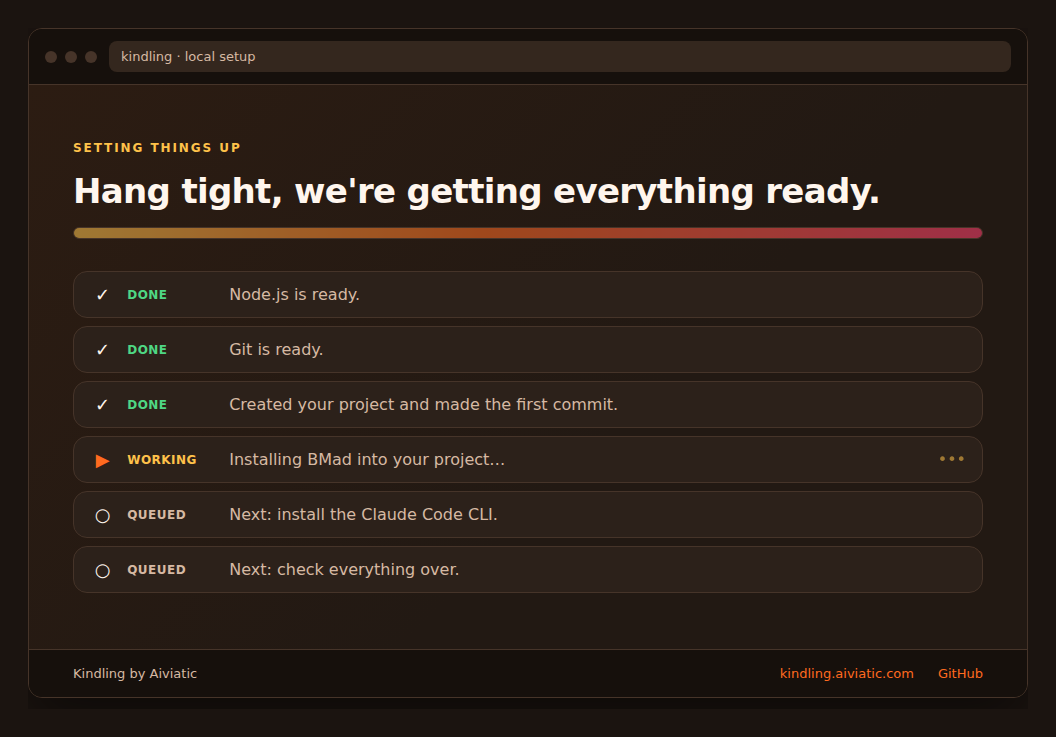
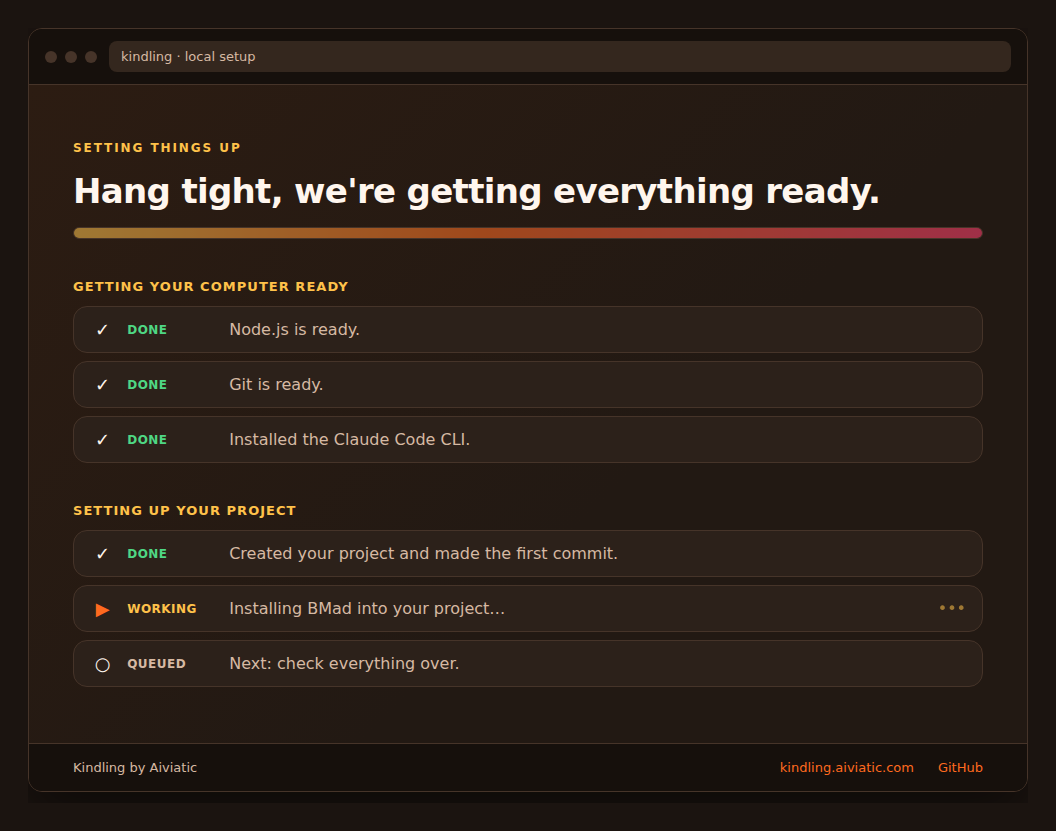
feat(progress): split the install into system + project sections
Group the Progress screen into two labelled sections — "Getting your computer
ready" (Node, Git, the global agent-CLI installs) and "Setting up your project"
(scaffold, the method install, the final check) — so a non-developer sees the
machine-wide setup grouped apart from the project setup. One overall bar is kept.

Engine: reorder install.agent-cli to run with Node/Git (before scaffold), so all
system installs are contiguous and match the sections. It's a global `npm -g`
install with no dependency on the project; retry is id-keyed so the reorder is
safe, and the self-check still re-probes CLI presence.

Adds a Section vocabulary + STEP_SECTION map (contract SSOT), a groupBySection
UI helper, section styling, and tests. Phase 2 of docs/install-architecture-design.md.
No new methods yet — BMad still always installs.

Claude-Session: https://claude.ai/code/session_014Ay1bZiDNd65qr6ib2rPoq

diff --git a/engine/engine.ts b/engine/engine.ts
@@ -132,6 +132,33 @@ export class Engine implements EngineCommands<EngineRunResult> {
         },
       },
       {
+        // Agent-CLI install (Story 6.1) — a SYSTEM install (global `npm install -g`), so it runs in
+        // the system section alongside Node/Git, before the project is scaffolded. NON-fatal by
+        // design: the step returns `true` UNCONDITIONALLY, so an individual CLI-install failure never
+        // fails the run — it surfaces only as a Failed event (ErrorCode.AgentCliInstallFailed) and the
+        // run still reaches the project section + self-check. Retryable via
+        // engine.retry(StepId.InstallAgentCli); retry() skips the already-completed later steps.
+        id: StepId.InstallAgentCli,
+        run: async () => {
+          // Non-fatal: the step returns true unconditionally. The install RESULT is intentionally
+          // not stored — the self-check re-derives CLI presence by probing (Story 6.2), so the
+          // presence report is robust to a mid-run failure regardless of this step's outcome.
+          // Windows: same `.cmd`-shim problem as the method install — `npm` can't spawn by bare name
+          // (shell:false), so route through `node npm-cli.js …`. macOS/Linux keep the bare-`npm` default.
+          await this.deps.installAgentCli({
+            config: this.config,
+            emitter: this.emitter,
+            // Windows: the idempotent-skip probe must go through `cmd /c <bin> --version` so the
+            // installed `claude.cmd` shim is detected (Node won't spawn `.cmd` with shell:false).
+            isWindows: this.deps.platform === 'win32',
+            ...(this.deps.platform === 'win32'
+              ? { npmCommand: process.execPath, npmPrefixArgs: [npmCliPath(process.execPath)] }
+              : {}),
+          });
+          return true;
+        },
+      },
+      {
         id: StepId.ScaffoldGitInit,
         run: async () => {
           const outcome = await this.deps.scaffold({
@@ -161,34 +188,6 @@ export class Engine implements EngineCommands<EngineRunResult> {
           });
           this.methodInstalled = result.ok;
           return result.ok;
-        },
-      },
-      {
-        // Optional agent-CLI install (Story 6.1). NON-fatal by design: it awaits the step but
-        // returns `true` UNCONDITIONALLY, so an individual CLI-install failure never invalidates
-        // the successful BMad install — the run still reaches self-check / Welcome. The failure is
-        // surfaced only as a Failed event (ErrorCode.AgentCliInstallFailed) for the error surface /
-        // Story 6.2 UI. The row is retryable via engine.retry(StepId.InstallAgentCli) — but note a
-        // future "Retry install" affordance must ALSO re-run self-check to refresh the Welcome's
-        // CLI-presence guidance (retry() skips the already-completed self-check). See deferred-work.md.
-        id: StepId.InstallAgentCli,
-        run: async () => {
-          // Non-fatal: the step returns true unconditionally. The install RESULT is intentionally
-          // not stored — the self-check re-derives CLI presence by probing (Story 6.2), so the
-          // presence report is robust to a mid-run failure regardless of this step's outcome.
-          // Windows: same `.cmd`-shim problem as BMad — `npm` can't spawn by bare name (shell:false),
-          // so route through `node npm-cli.js …`. macOS/Linux keep the bare-`npm` default.
-          await this.deps.installAgentCli({
-            config: this.config,
-            emitter: this.emitter,
-            // Windows: the idempotent-skip probe must go through `cmd /c <bin> --version` so the
-            // installed `claude.cmd` shim is detected (Node won't spawn `.cmd` with shell:false).
-            isWindows: this.deps.platform === 'win32',
-            ...(this.deps.platform === 'win32'
-              ? { npmCommand: process.execPath, npmPrefixArgs: [npmCliPath(process.execPath)] }
-              : {}),
-          });
-          return true;
         },
       },
       {

diff --git a/ui/screens/Progress.tsx b/ui/screens/Progress.tsx
@@ -8,6 +8,7 @@ import {
   activeStep,
   valueText,
   isSlowStep,
+  groupBySection,
 } from '../state/progress';
 
 // Step 3 — honest, never-frozen Progress. One row per step (icon + WORD + the engine's own
@@ -61,31 +62,39 @@ export function Progress() {
         {state.lastMessage}
       </p>
 
-      <ul className="steps" role="list">
-        {steps.map((step) => {
-          const view = STATUS_VIEW[step.status] ?? STATUS_VIEW[Status.Queued]; // guard unknown
-          const working = step.status === Status.Working;
-          const slow = working && isSlowStep(step.id);
-          return (
-            <li
-              key={step.id}
-              className={`step-row${working ? ' step-row--working' : ''}`}
-              data-tone={view.tone}
-            >
-              <span className="step-icon" aria-hidden="true">
-                {view.icon}
-              </span>
-              <span className="step-word">{view.word}</span>
-              <span className="step-message">{step.message}</span>
-              {slow && (
-                <span className="step-activity" aria-hidden="true">
-                  •••
-                </span>
-              )}
-            </li>
-          );
-        })}
-      </ul>
+      {/* Two sections — the machine-wide "system" installs, then the "project" installs — so a
+          non-developer sees the scary/slow computer setup grouped apart from the project setup.
+          Sections appear as their steps start (event-driven), in section order. */}
+      {groupBySection(steps).map((group) => (
+        <div className="step-section" key={group.section}>
+          <h2 className="step-section-head">{group.label}</h2>
+          <ul className="steps" role="list">
+            {group.steps.map((step) => {
+              const view = STATUS_VIEW[step.status] ?? STATUS_VIEW[Status.Queued]; // guard unknown
+              const working = step.status === Status.Working;
+              const slow = working && isSlowStep(step.id);
+              return (
+                <li
+                  key={step.id}
+                  className={`step-row${working ? ' step-row--working' : ''}`}
+                  data-tone={view.tone}
+                >
+                  <span className="step-icon" aria-hidden="true">
+                    {view.icon}
+                  </span>
+                  <span className="step-word">{view.word}</span>
+                  <span className="step-message">{step.message}</span>
+                  {slow && (
+                    <span className="step-activity" aria-hidden="true">
+                      •••
+                    </span>
+                  )}
+                </li>
+              );
+            })}
+          </ul>
+        </div>
+      ))}
     </section>
   );
 }

diff --git a/ui/state/progress.test.ts b/ui/state/progress.test.ts
@@ -8,6 +8,7 @@ import {
   showsActivity,
   valueText,
   activeStep,
+  groupBySection,
 } from './progress';
 
 const step = (id: StepId, status: Status, message: string = id): StepView => ({
@@ -96,5 +97,26 @@ describe('valueText (accessible, word-bearing)', () => {
   it('says Complete when all terminal, Stopped on failure', () => {
     expect(valueText([step(StepId.FinalizeSelfCheck, Status.Done)])).toBe('Complete.');
     expect(valueText([step(StepId.InstallMethod, Status.Failed)])).toMatch(/Stopped/);
+  });
+});
+
+describe('groupBySection', () => {
+  it('splits steps into system (Node/Git/CLI) then project (scaffold/method/check)', () => {
+    const steps = [
+      step(StepId.ProvisionNode, Status.Done),
+      step(StepId.InstallAgentCli, Status.Done),
+      step(StepId.ScaffoldGitInit, Status.Done),
+      step(StepId.InstallMethod, Status.Working),
+    ];
+    const groups = groupBySection(steps);
+    expect(groups.map((g) => g.section)).toEqual(['system', 'project']);
+    expect(groups[0].steps.map((s) => s.id)).toEqual([StepId.ProvisionNode, StepId.InstallAgentCli]);
+    expect(groups[1].steps.map((s) => s.id)).toEqual([StepId.ScaffoldGitInit, StepId.InstallMethod]);
+  });
+
+  it('drops sections with no steps yet (so early on only system shows)', () => {
+    const groups = groupBySection([step(StepId.ProvisionNode, Status.Working)]);
+    expect(groups).toHaveLength(1);
+    expect(groups[0].section).toBe('system');
   });
 });

diff --git a/engine/contract.ts b/engine/contract.ts
@@ -34,6 +34,33 @@ export type StepId = (typeof StepId)[keyof typeof StepId];
  */
 export const NON_FATAL_STEPS: ReadonlySet<StepId> = new Set([StepId.InstallAgentCli]);
 
+/**
+ * Install sections, grouped by what the work touches — the two-part Progress grouping. `System` is
+ * machine-wide (Node, Git, and the global agent-CLI installs: install once, skip if present);
+ * `Project` is scoped to the folder (scaffold, the method install, and the final check). The step
+ * order matches this (all system steps run before all project steps). See
+ * docs/install-architecture-design.md.
+ */
+export const Section = {
+  System: 'system',
+  Project: 'project',
+} as const;
+export type Section = (typeof Section)[keyof typeof Section];
+
+/** Ordered sections for the UI grouping (system first, then project). */
+export const SECTION_ORDER: readonly Section[] = [Section.System, Section.Project];
+
+/** Which section each step belongs to (SSOT for the Progress grouping). */
+export const STEP_SECTION: Record<StepId, Section> = {
+  [StepId.ProvisionNode]: Section.System,
+  [StepId.ProvisionGit]: Section.System,
+  [StepId.ProvisionXcodeClt]: Section.System,
+  [StepId.InstallAgentCli]: Section.System,
+  [StepId.ScaffoldGitInit]: Section.Project,
+  [StepId.InstallMethod]: Section.Project,
+  [StepId.FinalizeSelfCheck]: Section.Project,
+};
+
 export const Status = {
   Queued: 'queued',
   Working: 'working',

diff --git a/ui/state/progress.ts b/ui/state/progress.ts
@@ -1,5 +1,30 @@
-import { Status, StepId } from '../../engine/contract';
+import { Status, StepId, Section, SECTION_ORDER, STEP_SECTION } from '../../engine/contract';
 import type { StepView } from './model';
+
+/** User-facing heading for each install section on the Progress screen. */
+export const SECTION_LABELS: Record<Section, string> = {
+  [Section.System]: 'Getting your computer ready',
+  [Section.Project]: 'Setting up your project',
+};
+
+export interface StepGroup {
+  section: Section;
+  label: string;
+  steps: StepView[];
+}
+
+/**
+ * Group the observed steps into their install sections, in section order, dropping sections that
+ * have no steps yet (steps appear as they run). Order within a section is the engine's sequence,
+ * which already matches the section order — so grouping never visually reorders a running step.
+ */
+export function groupBySection(steps: StepView[]): StepGroup[] {
+  return SECTION_ORDER.map((section) => ({
+    section,
+    label: SECTION_LABELS[section],
+    steps: steps.filter((s) => STEP_SECTION[s.id] === section),
+  })).filter((g) => g.steps.length > 0);
+}
 
 export type Tone = 'wait' | 'busy' | 'success' | 'error';
 

diff --git a/ui/screens/Progress.test.tsx b/ui/screens/Progress.test.tsx
@@ -54,6 +54,18 @@ describe('<Progress>', () => {
     expect(within(rows[1]).getByText('Installing BMad…')).toBeInTheDocument();
   });
 
+  it('groups the rows into system and project sections with headings', () => {
+    const { emit } = renderProgress();
+    emit(ev(StepId.ProvisionNode, Status.Done, 'Node ready')); // system
+    emit(ev(StepId.InstallMethod, Status.Working, 'Installing BMad…')); // project
+
+    expect(screen.getByRole('heading', { name: /Getting your computer ready/ })).toBeInTheDocument();
+    expect(screen.getByRole('heading', { name: /Setting up your project/ })).toBeInTheDocument();
+    // Node (system) sits under the first heading, the method (project) under the second.
+    const headings = screen.getAllByRole('heading', { level: 2 }).map((h) => h.textContent);
+    expect(headings).toEqual(['Getting your computer ready', 'Setting up your project']);
+  });
+
   it('drives the progress bar from real completion (aria-valuenow) on a non-slow working step', () => {
     const { emit } = renderProgress();
     emit(ev(StepId.ProvisionNode, Status.Done, 'Node ready'));

diff --git a/ui/dev/gallery.tsx b/ui/dev/gallery.tsx
@@ -48,11 +48,12 @@ function ev(over: Partial<KindlingEvent> & Pick<KindlingEvent, 'step' | 'status'
 }
 
 const progressFrames = [
+  // System section done, project section mid-install — shows both groups.
   ev({ step: StepId.ProvisionNode, status: Status.Done, humanMessage: 'Node.js is ready.' }),
   ev({ step: StepId.ProvisionGit, status: Status.Done, humanMessage: 'Git is ready.' }),
+  ev({ step: StepId.InstallAgentCli, status: Status.Done, humanMessage: 'Installed the Claude Code CLI.' }),
   ev({ step: StepId.ScaffoldGitInit, status: Status.Done, humanMessage: 'Created your project and made the first commit.' }),
   ev({ step: StepId.InstallMethod, status: Status.Working, pct: 60, humanMessage: 'Installing BMad into your project…' }),
-  ev({ step: StepId.InstallAgentCli, status: Status.Queued, humanMessage: 'Next: install the Claude Code CLI.' }),
   ev({ step: StepId.FinalizeSelfCheck, status: Status.Queued, humanMessage: 'Next: check everything over.' }),
 ];
 

diff --git a/ui/tokens.css b/ui/tokens.css
@@ -571,9 +571,23 @@ fieldset.field {
   border: 0;
 }
 
+/* Install section (Progress): a labelled group of step rows (system, then project). */
+.step-section {
+  margin-top: var(--space-5);
+}
+
+.step-section-head {
+  margin: 0;
+  font-size: 13px;
+  font-weight: 800;
+  letter-spacing: 0.08em;
+  text-transform: uppercase;
+  color: var(--color-accent-gold);
+}
+
 .steps {
   list-style: none;
-  margin: var(--space-4) 0 0;
+  margin: var(--space-3) 0 0;
   padding: 0;
   display: flex;
   flex-direction: column;
